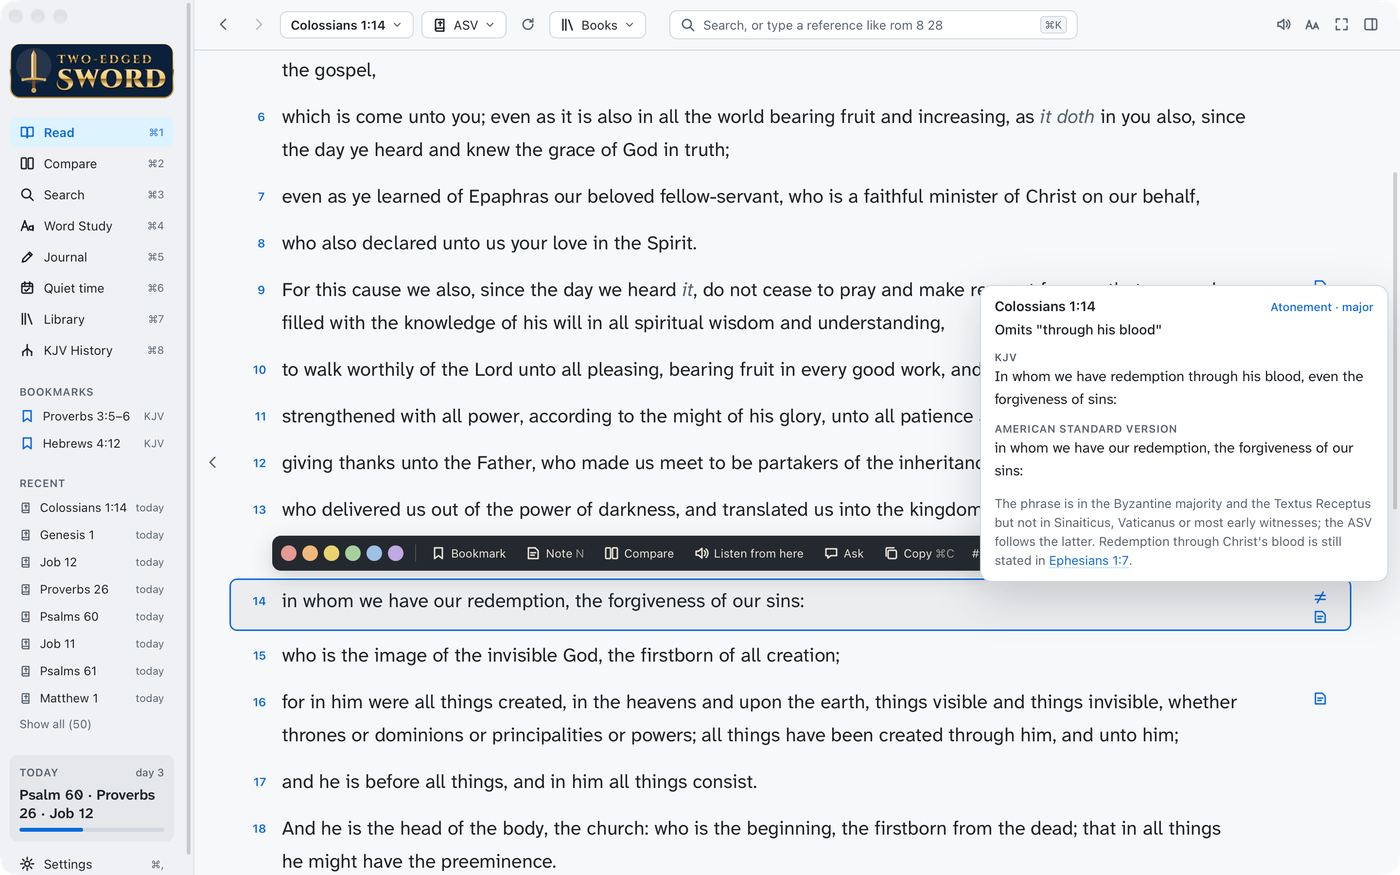
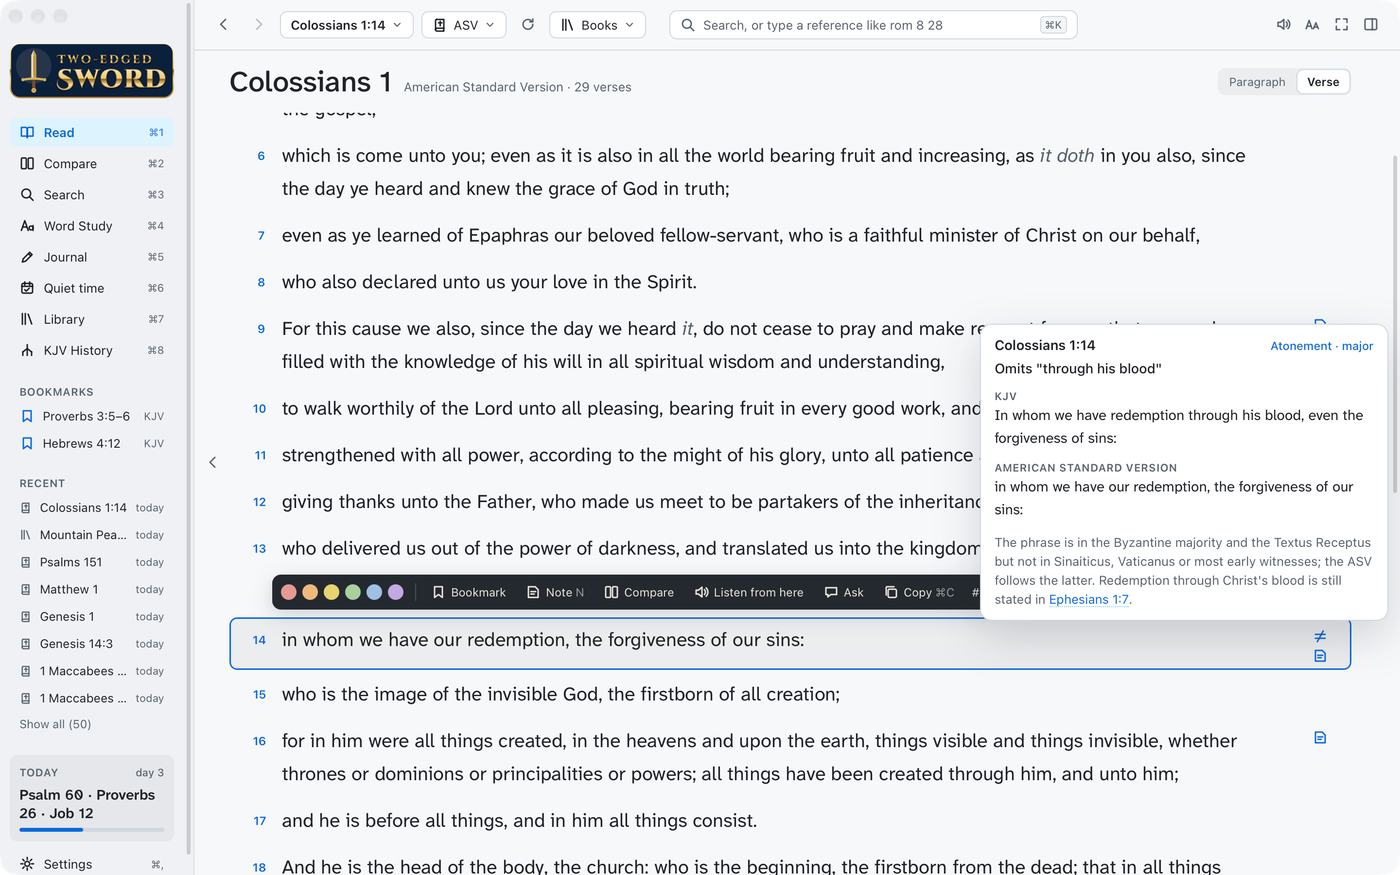
Favourite translations: up to three in Settings › Bibles, with buttons to the left of Paragraph and Verse in the reader to switch between them; reader screenshots retaken (scenes show no favourites unless they name them)

diff --git a/src/Settings.tsx b/src/Settings.tsx
@@ -1,11 +1,11 @@
-import { ReactNode, useEffect } from "react";
+import { ReactNode, useEffect, useState } from "react";
 import { open as openDialog } from "@tauri-apps/plugin-dialog";
 import { Icon } from "./icons";
 import { VoiceSelect } from "./Read";
 import { BibleSelect, Topbar } from "./Shell";
 import { modelGroups, PROVIDER_NAME, pickModel, refreshAssistant, useAssistant } from "./assistant";
 import { READ_FONTS, ReadFont, useApp } from "./state";
-import { confirmDelete, Seg, Switch } from "./ui";
+import { confirmDelete, Popover, SearchList, Seg, Switch } from "./ui";
 
 function Section({ title, children }: { title: string; children: ReactNode }) {
   return (
@@ -53,6 +53,7 @@ export function SettingsScreen() {
           </Section>
           <Section title="Bibles">
             <Row label="Default translation"><BibleSelect titled all value={app.defaultBible} onChange={app.setDefaultBible} style={{ maxWidth: "min(360px, 100%)" }} /></Row>
+            <Row label="Favourite translations" hint="Up to three. Buttons to the left of Paragraph and Verse in the reader switch to them."><FavBibles /></Row>
             <Row label="Compare starts with" hint="Change them on the Compare screen."><div style={{ display: "flex", gap: 5 }}>{s.compare.map((c) => <span key={c} className="chip" style={{ cursor: "default" }}>{app.mod("bible", c)?.abbrev ?? c}</span>)}</div></Row>
             <Row label="Library" hint="Checked for new modules each time the app opens, or press Rescan on the Library screen."><span style={{ fontSize: 12.5 }}>e-Sword X · {app.lib?.modules.length} modules · read-only</span></Row>
           </Section>
@@ -100,6 +101,32 @@ export function SettingsScreen() {
           </Section>
         </div>
       </div>
+    </div>
+  );
+}
+
+/** The favourite Bibles: chips to take one off, and Add while there are fewer than three. */
+function FavBibles() {
+  const app = useApp();
+  const favs = app.settings.favBibles ?? [];
+  const [a, setA] = useState<DOMRect | null>(null);
+  const set = (next: string[]) => app.set({ favBibles: next });
+  return (
+    <div style={{ display: "flex", gap: 5, flexWrap: "wrap", alignItems: "center" }}>
+      {favs.map((id) => (
+        <span key={id} className="chip" style={{ cursor: "default" }} title={app.mod("bible", id)?.title}>
+          {app.mod("bible", id)?.abbrev ?? id}
+          <button className="ibtn" type="button" aria-label={`Remove ${app.mod("bible", id)?.abbrev ?? id}`} title="Remove" style={{ width: 16, height: 16 }} onClick={() => set(favs.filter((x) => x !== id))}><Icon name="x" size={11} /></button>
+        </span>
+      ))}
+      {favs.length < 3 && <button className="btn small" type="button" onClick={(e) => setA(e.currentTarget.getBoundingClientRect())}><Icon name="plus" />Add</button>}
+      {!favs.length && <span className="n">None yet</span>}
+      {a && (
+        <Popover anchor={a} onClose={() => setA(null)} width={380} style={{ padding: 0, overflow: "hidden" }}>
+          <SearchList placeholder="Find a Bible" onClose={() => setA(null)} onPick={(id) => { setA(null); if (!favs.includes(id)) set([...favs, id].slice(0, 3)); }}
+            items={app.bibles.filter((b) => !favs.includes(b.id)).map((b) => ({ key: b.id, label: b.abbrev, sub: b.title, title: b.title, terms: b.id }))} />
+        </Popover>
+      )}
     </div>
   );
 }

diff --git a/src/Read.tsx b/src/Read.tsx
@@ -322,6 +322,7 @@ export function ReadScreen({ focus, setFocus, openPalette }: { focus: boolean; s
     </div>
   );
 
+  const favs = (settings.favBibles ?? []).map((id) => app.mod("bible", id)).filter((m): m is NonNullable<typeof m> => !!m);
   // Apocrypha: a book of it, or a chapter a canonical book has only in some Bibles (Daniel 13, Susanna).
   const apo = isApocrypha(loc.book, loc.chapter);
   const apoName = apocryphaName(loc.book, loc.chapter);
@@ -341,7 +342,15 @@ export function ReadScreen({ focus, setFocus, openPalette }: { focus: boolean; s
             {pill && <span style={{ alignSelf: "center" }}>{pill}</span>}
             <span style={{ color: "var(--muted)" }}>{bmod?.title ?? bible} · {verses.length} verses</span>
           </div>
-          <Seg value={settings.layout} options={[["paragraph", "Paragraph"], ["verse", "Verse"]]} onChange={(v) => app.set({ layout: v })} />
+          <div style={{ display: "flex", alignItems: "center", gap: 8 }}>
+            {/* The favourite translations from Settings, one click away (for this session, like the Bible picker). */}
+            {favs.length > 0 && (
+              <div className="seg" role="group" aria-label="Favourite translations">
+                {favs.map((m) => <button key={m.id} type="button" className={m.id === bible ? "on" : ""} title={m.id === bible ? m.title : `Read in ${m.title}`} onClick={() => app.set({ bible: m.id })}>{m.abbrev}</button>)}
+              </div>
+            )}
+            <Seg value={settings.layout} options={[["paragraph", "Paragraph"], ["verse", "Verse"]]} onChange={(v) => app.set({ layout: v })} />
+          </div>
         </>
       )}
     </div>

diff --git a/src/state.tsx b/src/state.tsx
@@ -24,6 +24,8 @@ export interface Settings {
   layout: "verse" | "paragraph";
   bible: string;
   compare: string[];
+  /** Up to three Bibles, for the buttons left of Paragraph and Verse in the reader. */
+  favBibles: string[];
   hiddenBibles: string[];
   commentaryOrder: string[];
   dictionaryOrder: string[];
@@ -67,7 +69,7 @@ export interface Settings {
 }
 
 const DEFAULTS: Settings = {
-  theme: "auto", readSize: 19, readFont: "literata", studyTab: "commentary", docTab: "ask", studyCommentary: null, studyDict: null, dictModule: null, studyFollow: true, redLetters: true, kjvGlosses: true, layout: "verse", bible: "kjv", compare: ["kjv", "asv", "kjv+"], hiddenBibles: [],
+  theme: "auto", readSize: 19, readFont: "literata", studyTab: "commentary", docTab: "ask", studyCommentary: null, studyDict: null, dictModule: null, studyFollow: true, redLetters: true, kjvGlosses: true, layout: "verse", bible: "kjv", compare: ["kjv", "asv", "kjv+"], favBibles: [], hiddenBibles: [],
   commentaryOrder: ["barnes", "henry", "clarke", "gill", "jfb", "wesley", "darby", "meyer"], dictionaryOrder: ["isbe", "smith", "nave", "cyclopedia"],
   voice: "", voiceHebrew: "", voiceGreek: "", voiceLatin: "", rate: 1, continueChapter: true, continueEntry: false, readNumbers: false, highlightWords: true, journalDir: "", showNotes: true, journalHighlight: "yellow", journalGrammar: true,
   model: "claude-sonnet-5", includeCommentaries: true, askJournal: false, allowLicensed: true, reminder: false, reminderTime: "06:30", whenBehind: "ask", studyPane: true, copyNumbers: true,

diff --git a/tools/screenshots.py b/tools/screenshots.py
@@ -94,7 +94,8 @@ def shoot(scene, theme, window_id):
     for f, k in files.items():
         if f in scene:
             sc[k] = json.loads((HERE / scene[f]).read_text())
-    sc["settings"] = {**sc.get("settings", {}), "theme": theme}
+    # No favourite translations unless the scene names them: the user's own could be licensed Bibles.
+    sc["settings"] = {"favBibles": [], **sc.get("settings", {}), "theme": theme}
     env = {**os.environ, "TES_SCENE": json.dumps(sc)}
     app = subprocess.Popen([str(BIN)], cwd=ROOT / "src-tauri", env=env, stdout=subprocess.DEVNULL, stderr=subprocess.DEVNULL)
     try:

diff --git a/docs/features.md b/docs/features.md
@@ -27,8 +27,8 @@
   English under each word of Greek and Hebrew Bibles that have none of their own, verse numbers
   when copying, and verse or paragraph layout.
 - **Bibles**: the default translation (what the reader opens with; choosing another Bible while
-  reading lasts until you close the window, or the button beside the Bible picker), the Compare
-  columns, and the library.
+  reading lasts until you close the window, or the button beside the Bible picker), up to three
+  favourite translations, the Compare columns, and the library.
 - **Listening**: the voice, the voices for Hebrew, Greek and Latin Bibles, speed, and whether to
   highlight each word, continue into the next chapter or journal entry, and read verse numbers.
 - **Journal**: its folder, notes beside verses, and grammar checking.

diff --git a/docs/reading.md b/docs/reading.md
@@ -50,7 +50,8 @@ The chapter's name stays at the top of the column as you scroll.
 
 The Bible you choose here is for this session. The default in Settings (or the Library) comes
 back when you reopen the window or restart the app, or with the button beside the Bible picker
-(greyed out when the default is the one showing).
+(greyed out when the default is the one showing). Up to three favourite translations (Settings ›
+Bibles) get buttons to the left of Paragraph and Verse, to switch between them in one click.
 
 In Verse layout, a ≠ beside a verse marks where the translation differs in meaning from the KJV,
 and Greek and Hebrew Bibles show each word over its English and Strong's number: see
